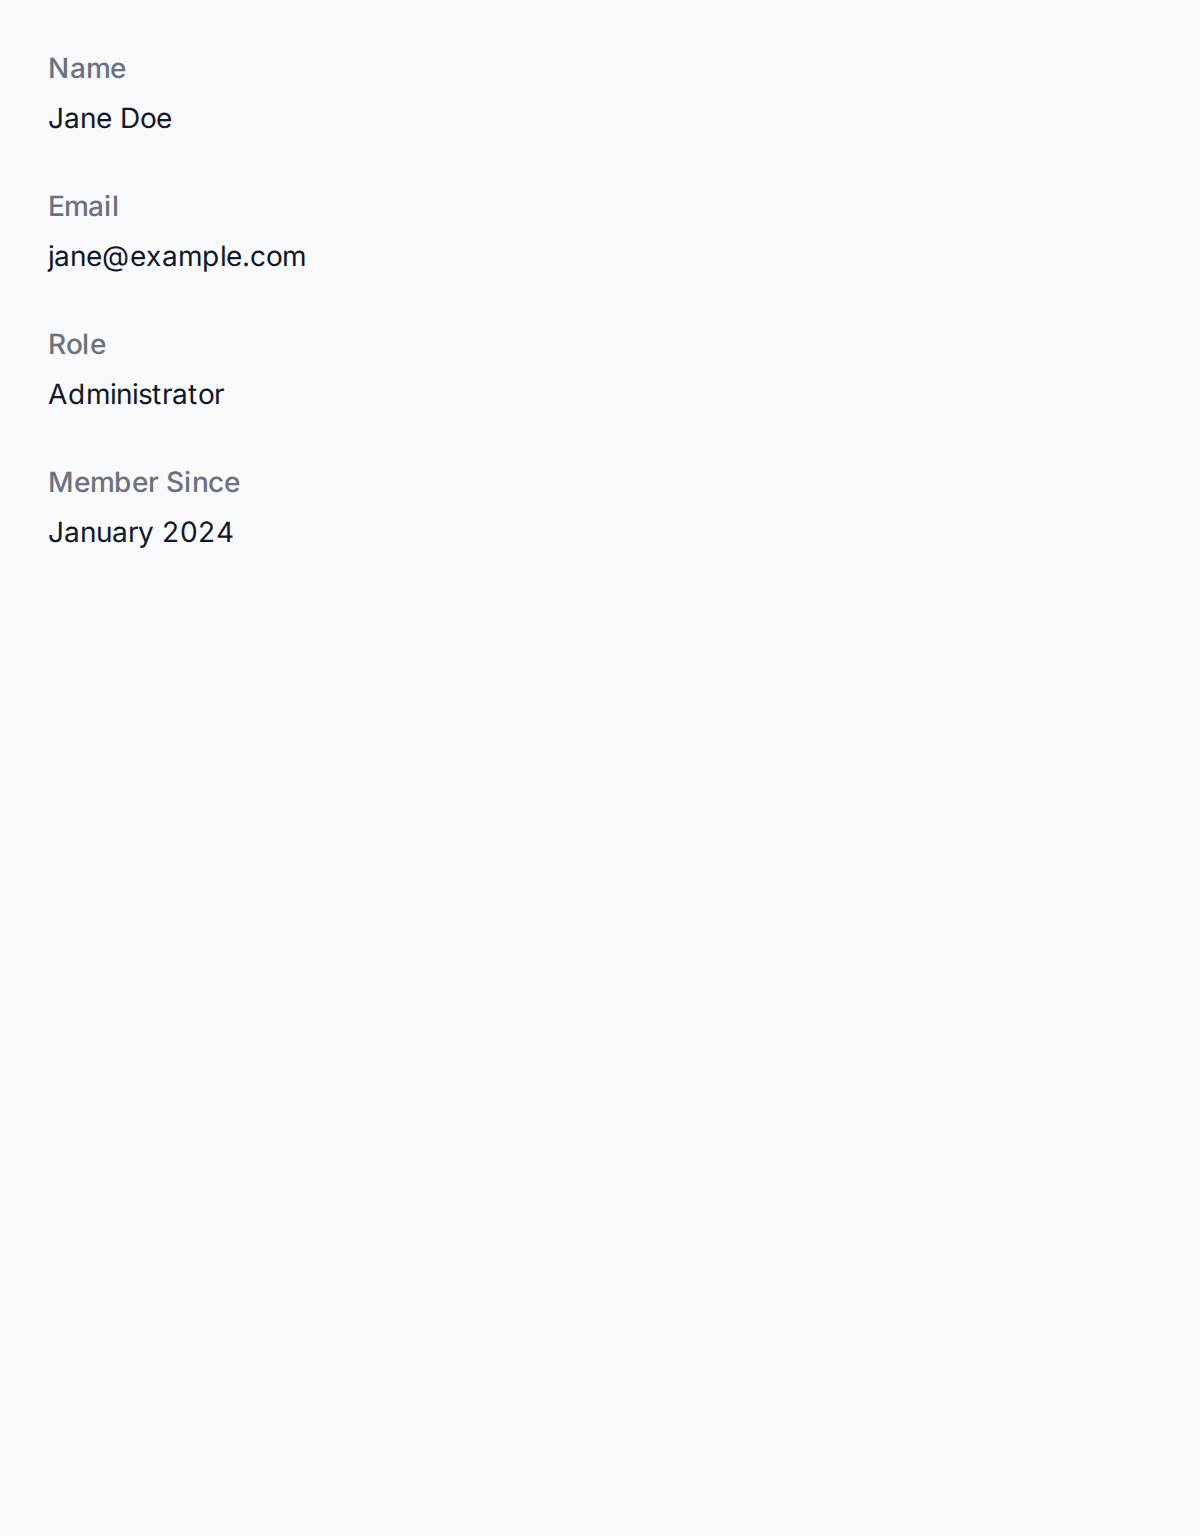
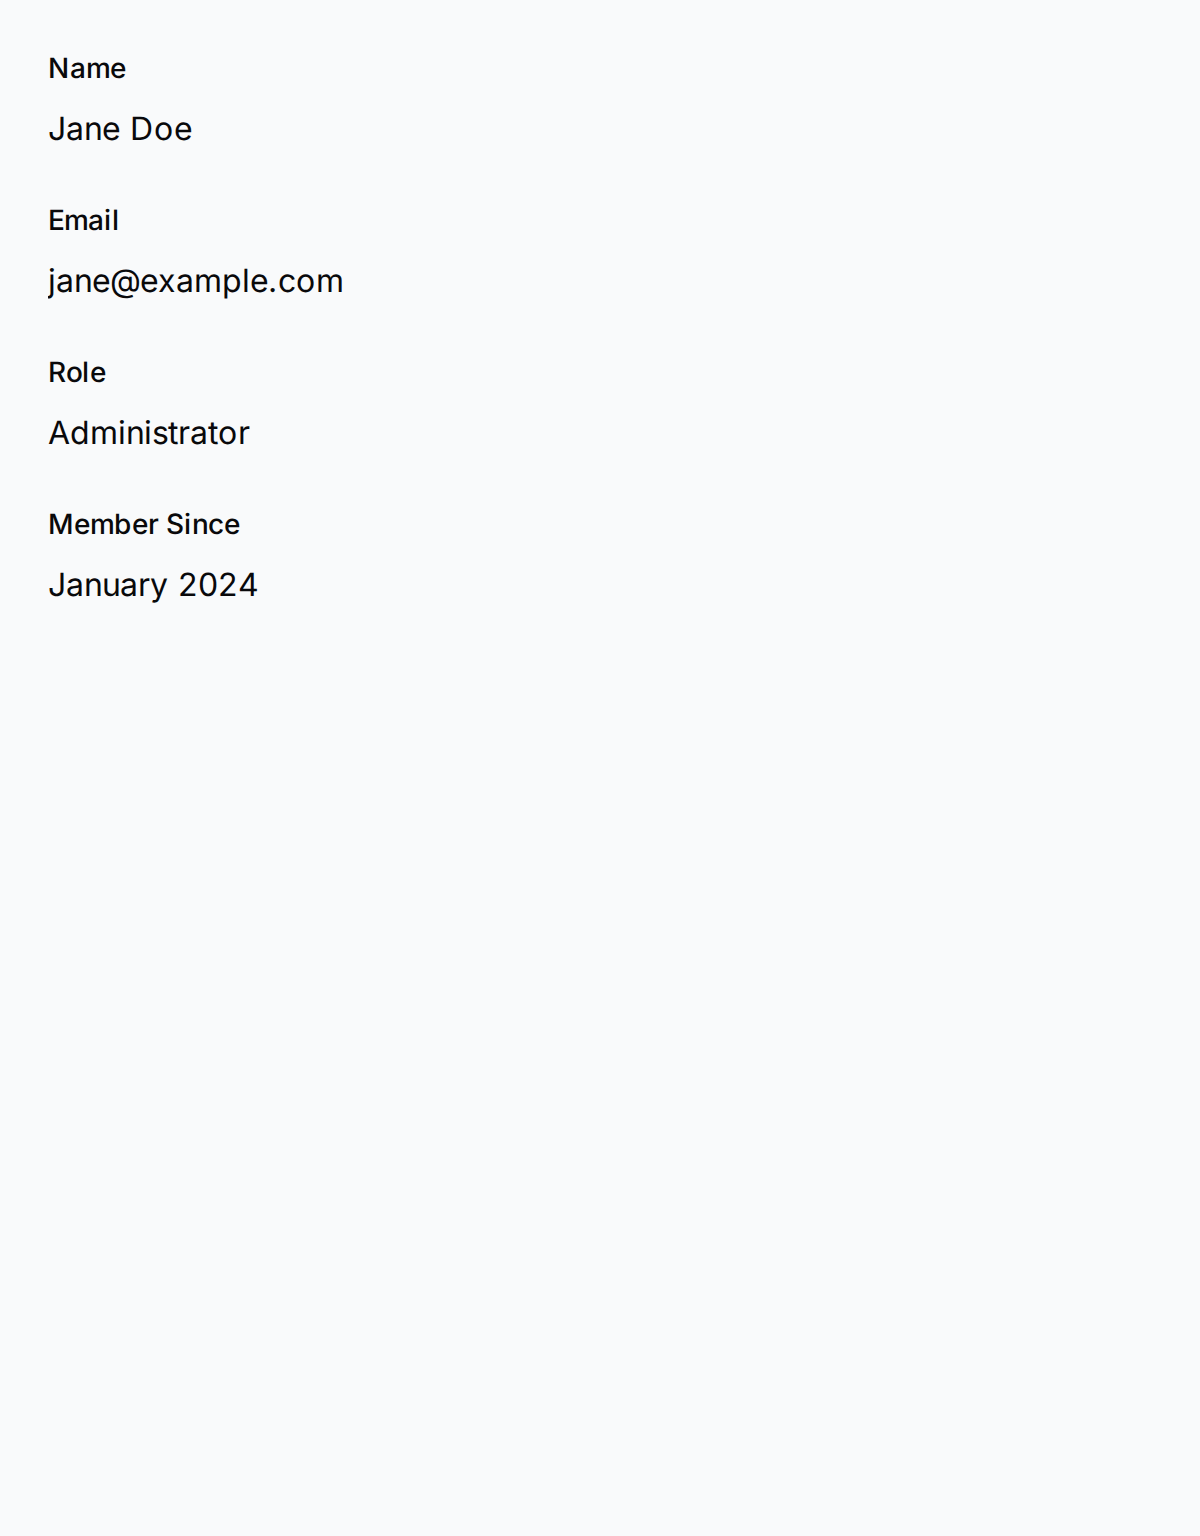
Fix infolist dark mode, CI push permissions, and add infolist dark example
- Replace inline styles with Filament CSS classes in infolist template
  (fi-in-entry, fi-in-entry-label, fi-in-entry-content, fi-in-text-item)
- Add contents: write permission to generate-examples workflow
- Add infolist dark mode example screenshot
- Update README infolist section with light/dark comparison

Changed region(s): [[0.0308, 0.2188, 0.2158, 0.4062], [0.0308, 0.125, 0.2775, 0.1875], [0.0308, 0.0312, 0.1542, 0.0938]]

diff --git a/resources/views/components/infolist.blade.php b/resources/views/components/infolist.blade.php
@@ -1,12 +1,24 @@
 <div class="fi-in" style="display: flex; flex-direction: column; gap: 1.5rem;">
     @foreach($entries as $entry)
-        <div class="fi-in-entry" style="display: flex; flex-direction: column; gap: 0.25rem;">
-            <dt class="fi-in-entry-label" style="font-size: 0.875rem; font-weight: 500; color: #6b7280;">
-                {{ $entry['label'] }}
-            </dt>
-            <dd class="fi-in-entry-content" style="font-size: 0.875rem; color: #111827; margin: 0;">
-                {{ $entry['value'] ?? '' }}
-            </dd>
+        <div class="fi-in-entry">
+            <div class="fi-in-entry-label-col">
+                <div class="fi-in-entry-label-ctn">
+                    <dt class="fi-in-entry-label">
+                        {{ $entry['label'] }}
+                    </dt>
+                </div>
+            </div>
+            <div class="fi-in-entry-content-col">
+                <dd class="fi-in-entry-content-ctn">
+                    <div class="fi-in-entry-content">
+                        <div class="fi-in-text">
+                            <div class="fi-in-text-item">
+                                {{ $entry['value'] ?? '' }}
+                            </div>
+                        </div>
+                    </div>
+                </dd>
+            </div>
         </div>
     @endforeach
 </div>

diff --git a/tests/Examples/GenerateExamplesTest.php b/tests/Examples/GenerateExamplesTest.php
@@ -185,6 +185,26 @@ it('generates infolist example', function () use ($outputDir) {
     expect(file_exists("$outputDir/infolist.png"))->toBeTrue();
 })->group('examples');
 
+it('generates infolist dark example', function () use ($outputDir) {
+    FilamentShot::infolist([
+        TextEntry::make('name')->label('Name'),
+        TextEntry::make('email')->label('Email'),
+        TextEntry::make('role')->label('Role'),
+        TextEntry::make('joined')->label('Member Since'),
+    ])
+        ->state([
+            'name' => 'Jane Doe',
+            'email' => 'jane@example.com',
+            'role' => 'Administrator',
+            'joined' => 'January 2024',
+        ])
+        ->darkMode()
+        ->width(600)
+        ->save("$outputDir/infolist-dark.png");
+
+    expect(file_exists("$outputDir/infolist-dark.png"))->toBeTrue();
+})->group('examples');
+
 it('generates stats example', function () use ($outputDir) {
     FilamentShot::stats([
         Stat::make('Total Users', '1,234')

diff --git a/README.md b/README.md
@@ -28,7 +28,9 @@ These screenshots are automatically generated by CI to verify rendering quality.
 
 ### Infolist
 
-![Infolist](examples/images/infolist.png)
+| Light | Dark |
+|-------|------|
+| ![Infolist](examples/images/infolist.png) | ![Infolist Dark](examples/images/infolist-dark.png) |
 
 ### Stats Widgets
 
